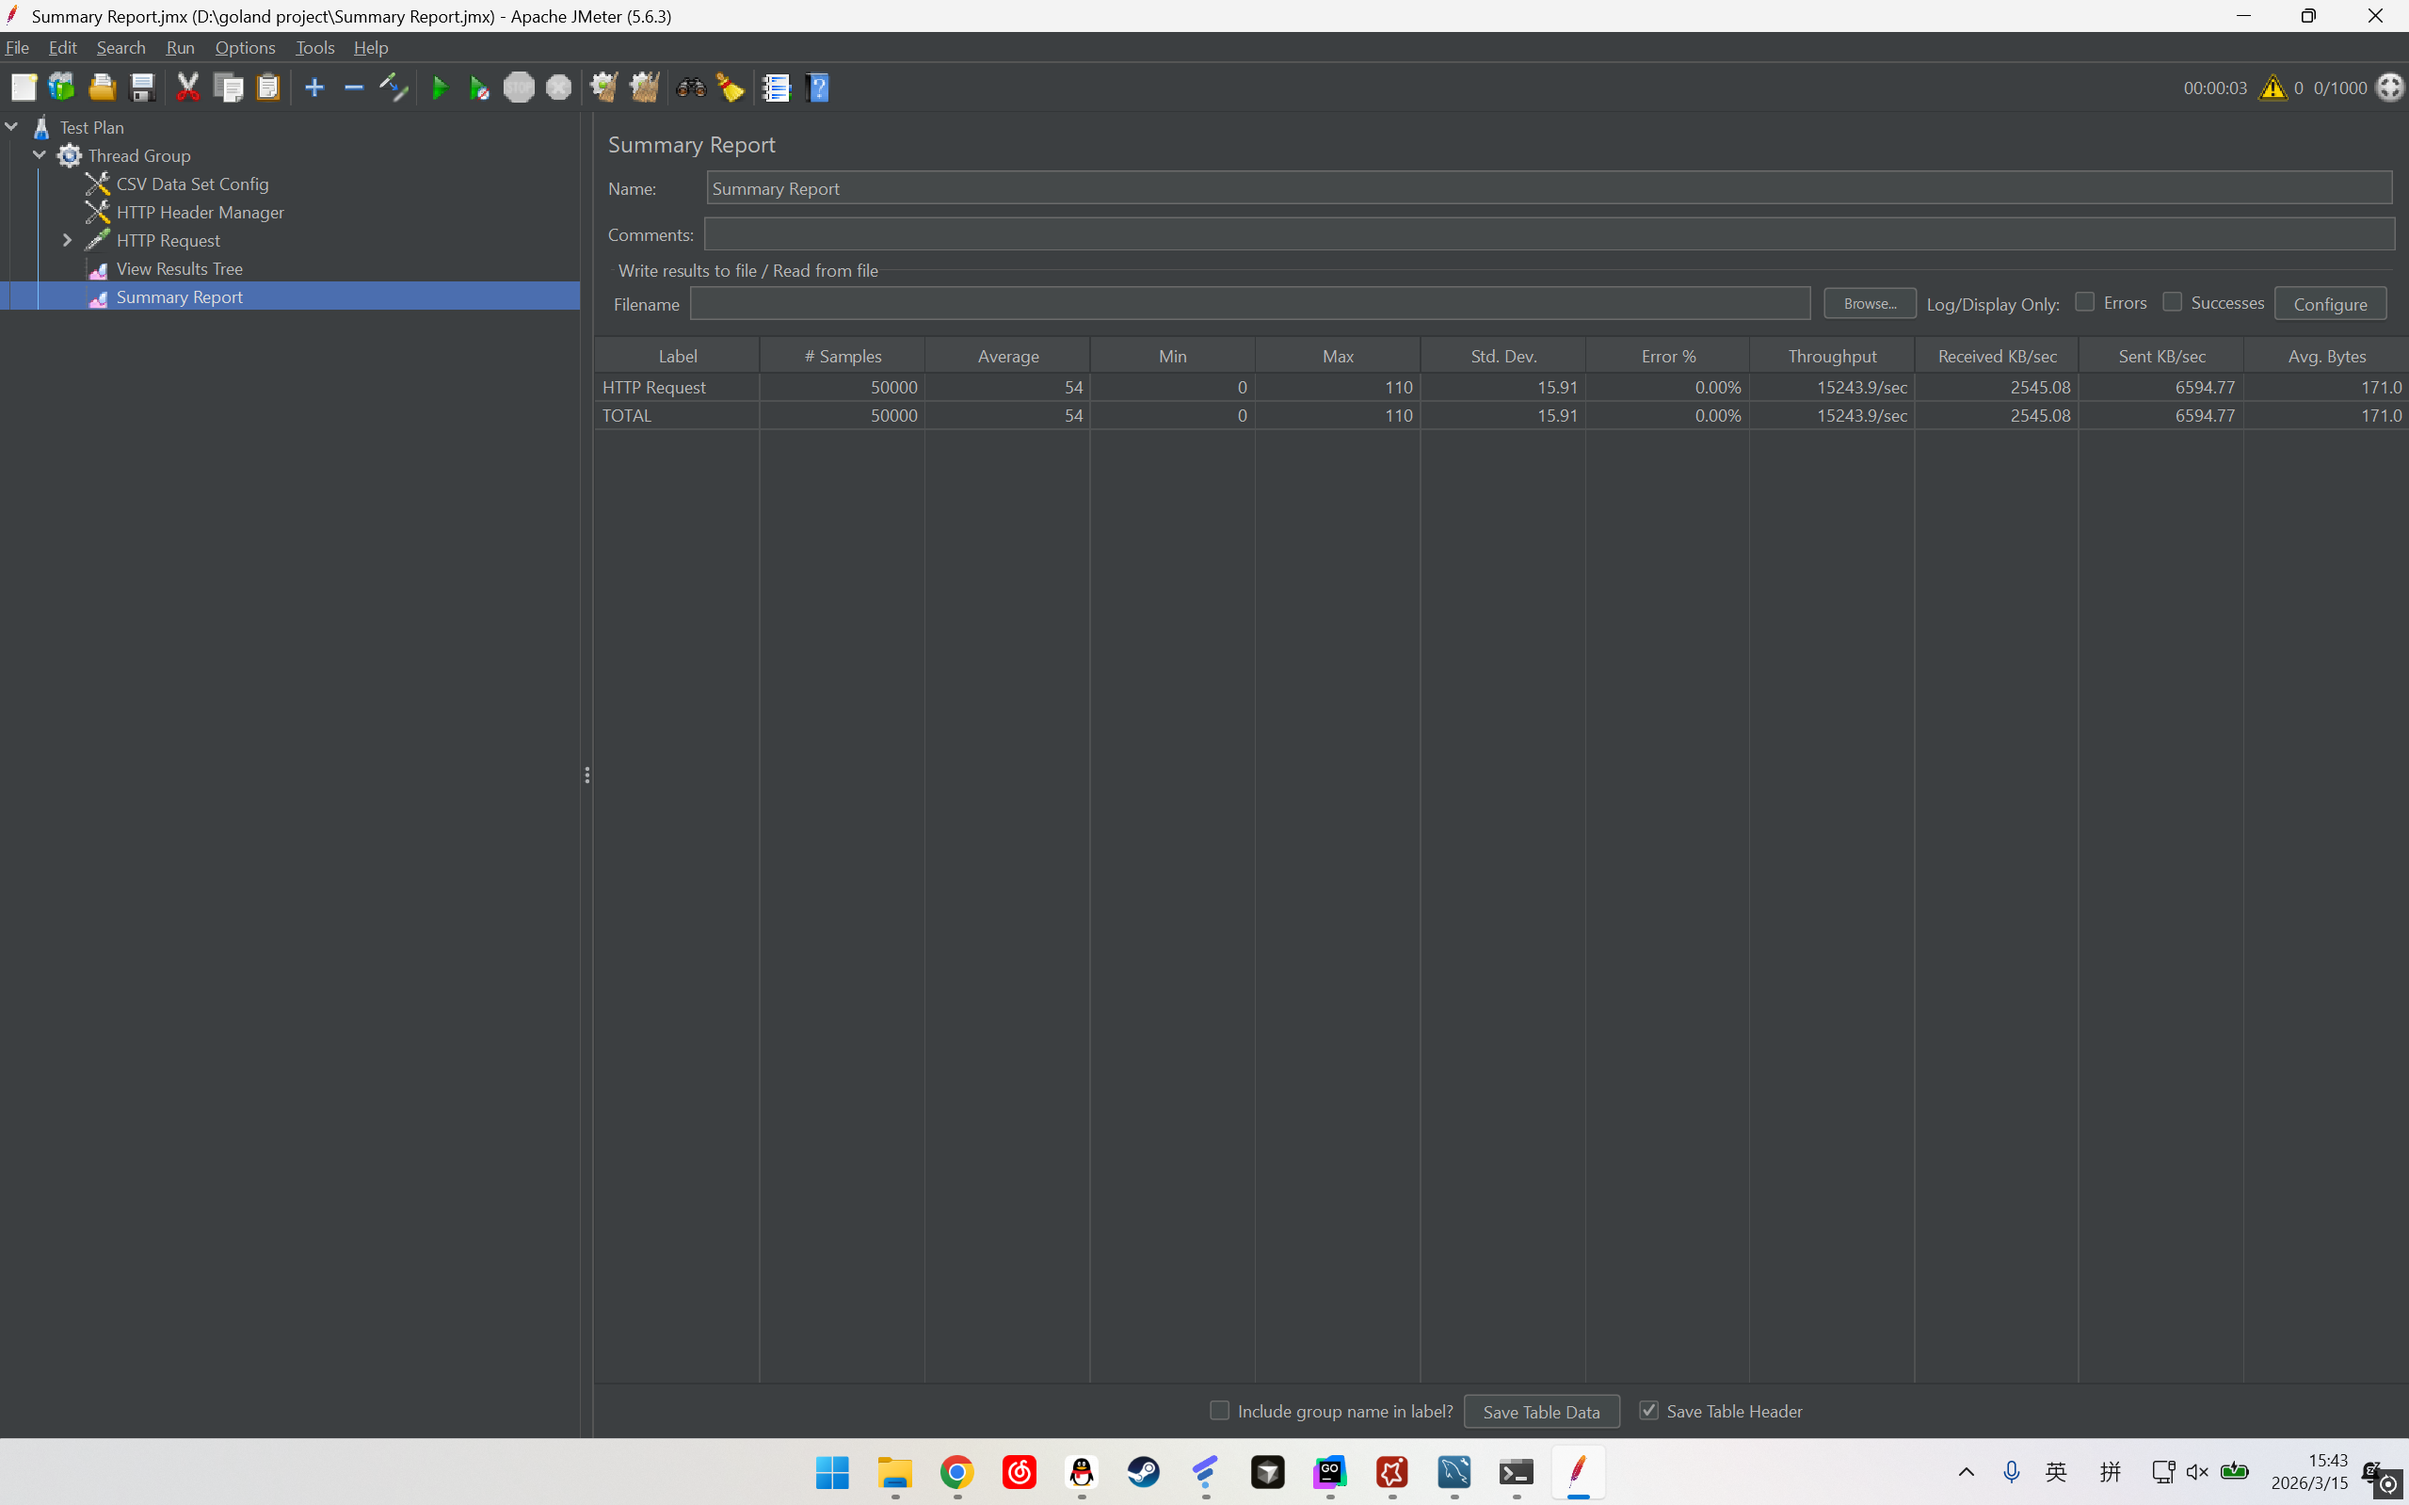
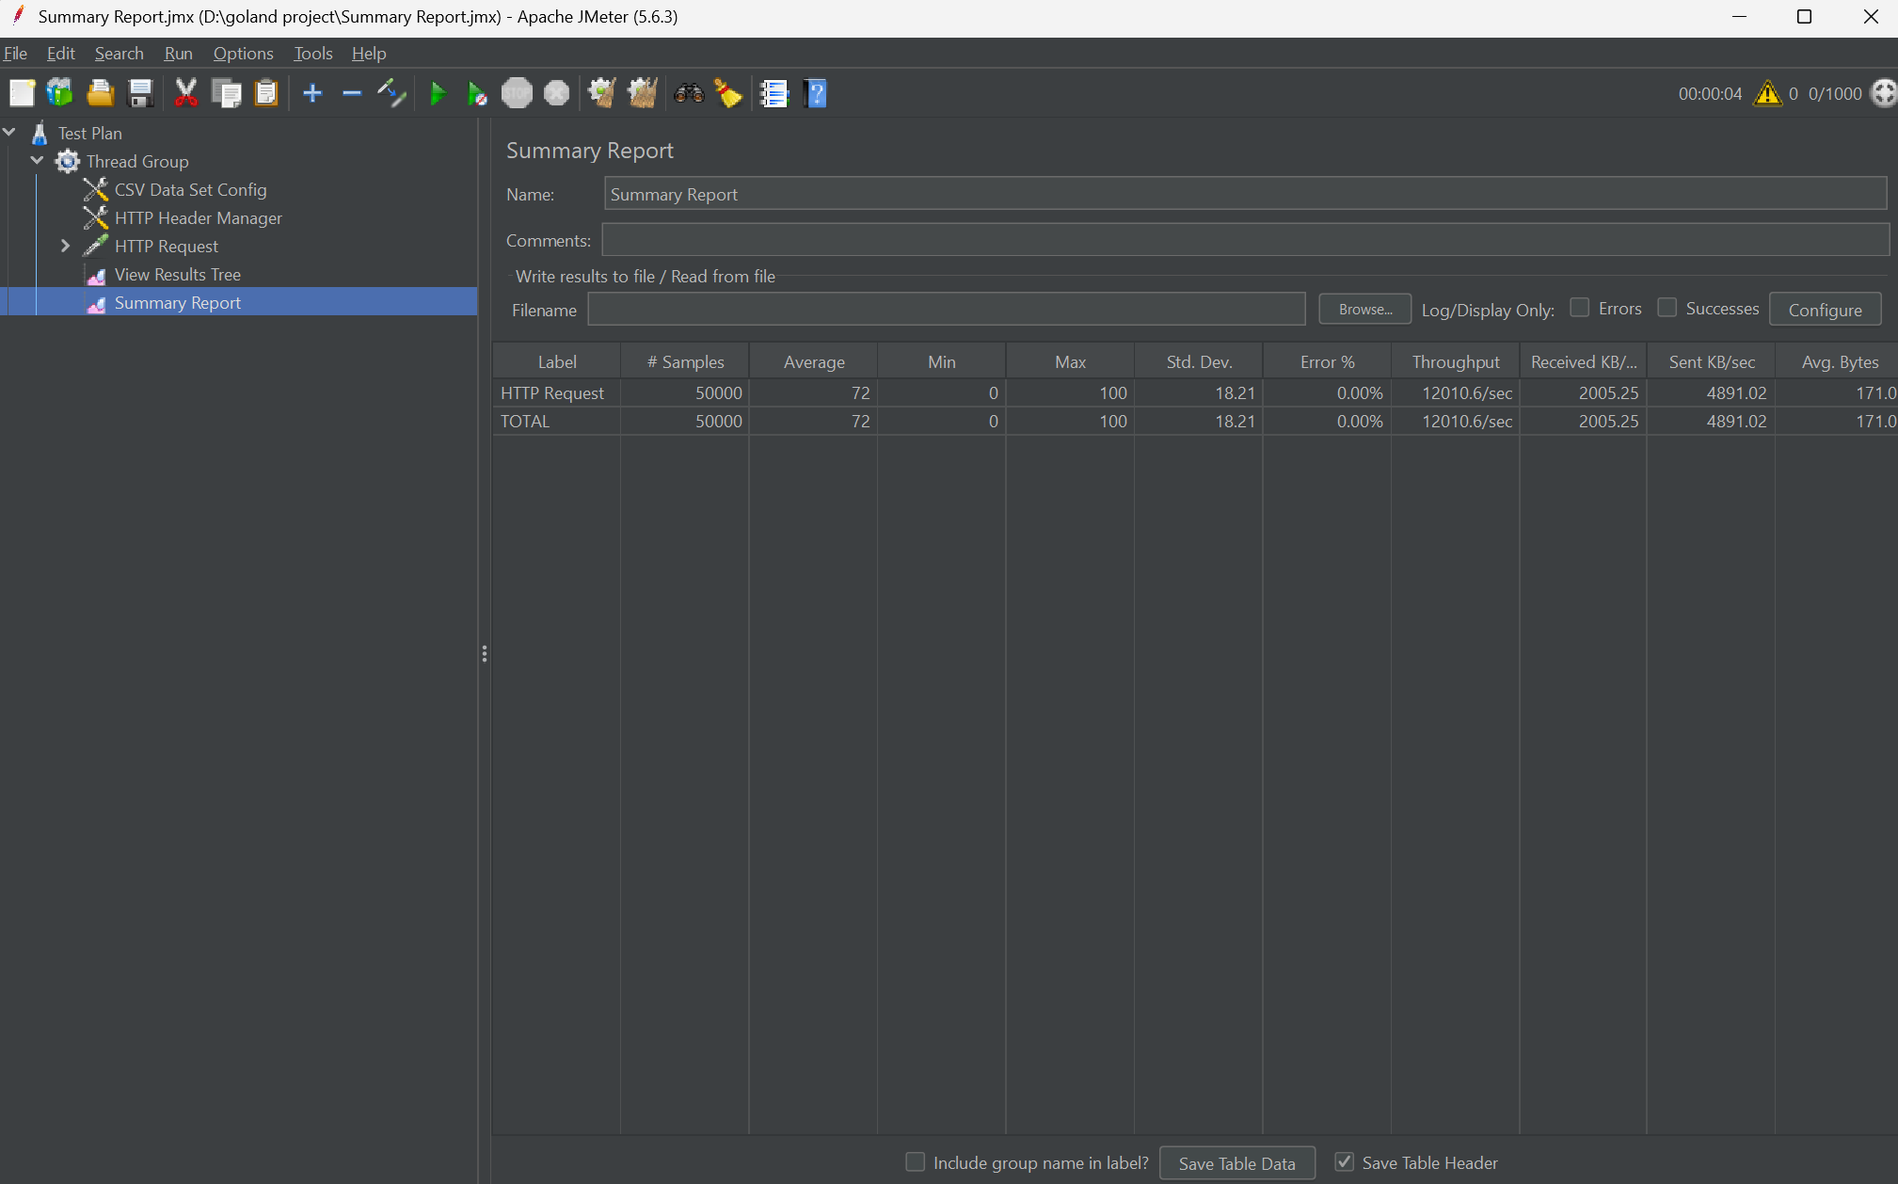
fix:  独立单次消息消费函数，修复 Context 泄漏与消息防丢机制

diff --git a/mq/consumer.go b/mq/consumer.go
@@ -5,10 +5,10 @@ import (
 	"encoding/json"
 	"fmt"
 	"go-course/global"
-
 	"go-course/service"
 	"time"
 
+	"github.com/rabbitmq/amqp091-go"
 	"go.uber.org/zap"
 )
 
@@ -36,92 +36,104 @@ func Consumer() {
 			global.Logger.Info("消费者Worker启动", zap.Int("workerID", workerID))
 
 			for d := range msgs {
-				global.Logger.Info("收到MQ消息", zap.String("msgID:", d.MessageId))
-				var msg service.Message
-				//  反序列化消息body
-				err = json.Unmarshal(d.Body, &msg)
-				if err != nil {
-					global.Logger.Error("消息解析失败",
-						zap.String("body", string(d.Body)),
-						zap.Error(err))
-					//消息解析失败 删除这条消息 进行下一次循环
-					d.Ack(false)
-					continue
-				}
-				ctx, cancel := context.WithTimeout(context.Background(), 5*time.Second)
-
-				key := fmt.Sprintf("res:%d:%d", msg.StudentID, msg.CourseID)
-				msgkey := fmt.Sprintf("msg:%d:%d", msg.StudentID, msg.CourseID)
-
-				// Redis分布式锁保证消息不重复
-				exists := global.RDB.SetNX(ctx, msgkey, "processing", time.Minute*10)
-				if !exists.Val() {
-					global.Logger.Warn("命中消息防重拦截 直接丢弃废消息",
-						zap.Uint("studentID", msg.StudentID),
-						zap.Uint("courseID", msg.CourseID))
-					// 消息重复 确认消费
-					d.Ack(false)
-					continue
-				}
-
-				// 数据库创建选课记录封装到了一个事务里面 并对TotalStock库存加锁 有错误则回滚
-				err = service.CreateRecord(msg.StudentID, msg.CourseID)
-				if err != nil {
-
-					if err == service.ErrStockEmpty {
-						if global.Logger.Core().Enabled(zap.DebugLevel) {
-							global.Logger.Debug("库存不足",
-								zap.Uint("课程ID", msg.CourseID))
-						}
-						// 消息消费成功 更新分布式锁value
-						global.RDB.Set(ctx, msgkey, "success", time.Minute*10)
-						global.RDB.Set(ctx, key, -1, time.Minute)
-						cancel()
-						// 库存不足时 删除消息 进入下一次循环
-						d.Ack(false)
-						continue
-					}
-					// 重复选课 两个消费者同时收到消息导致
-					if err == service.ErrRepeatSelection {
-						global.Logger.Warn("并发重复选课，已拦截",
-							zap.Uint("uid", msg.StudentID),
-							zap.Uint("cid", msg.CourseID))
-						global.RDB.Set(ctx, msgkey, "success", time.Minute*10)
-						global.RDB.Set(ctx, key, -1, time.Minute)
-						cancel()
-						d.Ack(false) // 确认消费 不要重试了
-						continue
-					}
-					global.Logger.Error("系统异常 创建记录失败",
-						zap.Uint("学生ID", msg.StudentID),
-						zap.Uint("课程ID", msg.CourseID),
-						zap.Error(err))
-					time.Sleep(1 * time.Second)
-					// 消息消费失败需要重试 删除分布式锁
-					global.RDB.Del(ctx, msgkey)
-					cancel()
-					// 系统出错 把这条消息重新加入消息队列
-					d.Reject(true)
-					continue
-
-				}
-				// 消息消费成功 数据库正常扣减
-				global.RDB.Set(ctx, msgkey, "success", time.Minute*10)
-
-				err = global.RDB.Set(ctx, key, 1, 5*time.Minute).Err()
-				// 不能用defer 因为这里的for range是一个死循环 完成一次Redis操作直接cancel
-				cancel()
-				if err != nil {
-					global.Logger.Error("Redis出错", zap.String("key", key), zap.Error(err))
-					d.Ack(false)
-					continue
-				}
-
-				global.Logger.Info("选课记录创建成功",
-					zap.Uint("学生ID", msg.StudentID),
-					zap.Uint("课程ID", msg.CourseID))
-				d.Ack(false)
+				// 将单次消息处理抽离为独立函数 防止协程意外退出和内存泄漏
+				processSingleMessage(d)
 			}
 		}(i)
 	}
+}
+
+// 抽取出的单条消息处理逻辑
+func processSingleMessage(d amqp091.Delivery) {
+	global.Logger.Info("收到MQ消息", zap.String("msgID:", d.MessageId))
+	var msg service.Message
+
+	//  反序列化消息body
+	err := json.Unmarshal(d.Body, &msg)
+	if err != nil {
+		global.Logger.Error("消息解析失败",
+			zap.String("body", string(d.Body)),
+			zap.Error(err))
+		// 消息解析失败 删除这条消息 进行下一次循环
+		d.Ack(false)
+		return
+	}
+
+	ctx, cancel := context.WithTimeout(context.Background(), 5*time.Second)
+	defer cancel() // 独立函数配合 defer，完美解决 Context 内存泄漏问题
+
+	key := fmt.Sprintf("res:%d:%d", msg.StudentID, msg.CourseID)
+	msgkey := fmt.Sprintf("msg:%d:%d", msg.StudentID, msg.CourseID)
+
+	// Redis分布式锁保证消息不重复
+	exists := global.RDB.SetNX(ctx, msgkey, "processing", time.Minute*10)
+	if !exists.Val() {
+		// 抢锁失败 确认锁的value
+		status, _ := global.RDB.Get(ctx, msgkey).Result()
+		if status == "success" {
+			// 别人已经成功落库了 确认删除消息
+			d.Ack(false)
+			return
+		}
+		// "processing"说明别人正在处理（或者别人宕机了锁还没过期）
+		d.Reject(true)
+		return
+	}
+
+	// 数据库创建选课记录封装到了一个事务里面 并对TotalStock库存加锁 有错误则回滚
+	err = service.CreateRecord(ctx, msg.StudentID, msg.CourseID)
+	if err != nil {
+
+		if err == service.ErrStockEmpty {
+			if global.Logger.Core().Enabled(zap.DebugLevel) {
+				global.Logger.Debug("库存不足",
+					zap.Uint("课程ID", msg.CourseID))
+			}
+			// 消息消费成功 更新分布式锁value
+			global.RDB.Set(ctx, msgkey, "success", time.Minute*10)
+			global.RDB.Set(ctx, key, -1, time.Minute)
+			// 库存不足时 删除消息 进入下一次循环
+			d.Ack(false)
+			return
+		}
+
+		// 重复选课 两个消费者同时收到消息导致
+		if err == service.ErrRepeatSelection {
+			global.Logger.Warn("并发重复选课，已拦截",
+				zap.Uint("uid", msg.StudentID),
+				zap.Uint("cid", msg.CourseID))
+			global.RDB.Set(ctx, msgkey, "success", time.Minute*10)
+			global.RDB.Set(ctx, key, 1, time.Minute) // 修复：既然是重复选课，说明已成功，写入1
+			// 确认消费 不要重试了
+			d.Ack(false)
+			return
+		}
+
+		global.Logger.Error("系统异常 创建记录失败",
+			zap.Uint("学生ID", msg.StudentID),
+			zap.Uint("课程ID", msg.CourseID),
+			zap.Error(err))
+		time.Sleep(1 * time.Second)
+		// 消息消费失败需要重试 删除分布式锁
+		global.RDB.Del(ctx, msgkey)
+		// 系统出错 把这条消息重新加入消息队列
+		d.Reject(true)
+		return
+	}
+
+	// 消息消费成功 数据库正常扣减
+	global.RDB.Set(ctx, msgkey, "success", time.Minute*10)
+
+	err = global.RDB.Set(ctx, key, 1, 5*time.Minute).Err()
+	// 不能用defer 因为这里的for range是一个死循环 完成一次Redis操作直接cancel
+	if err != nil {
+		global.Logger.Error("Redis出错", zap.String("key", key), zap.Error(err))
+		d.Ack(false)
+		return
+	}
+
+	global.Logger.Info("选课记录创建成功",
+		zap.Uint("学生ID", msg.StudentID),
+		zap.Uint("课程ID", msg.CourseID))
+	d.Ack(false)
 }

diff --git a/dao/course.go b/dao/course.go
@@ -1,6 +1,7 @@
 package dao
 
 import (
+	"context"
 	"errors"
 	"go-course/global"
 	"go-course/model"
@@ -10,10 +11,10 @@ import (
 )
 
 // 获取课程列表函数
-func GetCourseList() ([]model.Course, error) {
+func GetCourseList(timeoutCtx context.Context) ([]model.Course, error) {
 	var courses []model.Course
 	// gorm会自动通过&courses的类型Course 在数据库中找course的表 存入courses课程切片
-	err := global.DB.Find(&courses).Error
+	err := global.DB.WithContext(timeoutCtx).Find(&courses).Error
 	if err != nil {
 		global.Logger.Error("数据库出错", zap.Error(err))
 		return nil, err
@@ -21,9 +22,9 @@ func GetCourseList() ([]model.Course, error) {
 	return courses, nil
 }
 
-func GetCourseById(id uint) (*model.Course, error) {
+func GetCourseById(timeoutCtx context.Context, id uint) (*model.Course, error) {
 	var course model.Course
-	err := global.DB.First(&course, id).Error
+	err := global.DB.WithContext(timeoutCtx).First(&course, id).Error
 	if err != nil {
 		if errors.Is(err, gorm.ErrRecordNotFound) {
 			return nil, gorm.ErrRecordNotFound

diff --git a/dao/student.go b/dao/student.go
@@ -1,6 +1,7 @@
 package dao
 
 import (
+	"context"
 	"errors"
 	"go-course/global"
 	"go-course/model"
@@ -10,8 +11,8 @@ import (
 )
 
 // 创建学生函数
-func CreateStu(student *model.Student) error {
-	err := global.DB.Create(student).Error
+func CreateStu(timeoutCtx context.Context, student *model.Student) error {
+	err := global.DB.WithContext(timeoutCtx).Create(student).Error
 	if err != nil {
 		global.Logger.Error("数据库出错", zap.Error(err))
 	}
@@ -19,9 +20,9 @@ func CreateStu(student *model.Student) error {
 }
 
 // 通过学号查询学生
-func GetBySid(sid string) (*model.Student, error) {
+func GetBySid(timeoutCtx context.Context, sid string) (*model.Student, error) {
 	var student model.Student
-	err := global.DB.Where("sid = ?", sid).First(&student).Error
+	err := global.DB.WithContext(timeoutCtx).Where("sid = ?", sid).First(&student).Error
 	if err != nil {
 		if !errors.Is(err, gorm.ErrRecordNotFound) {
 			global.Logger.Error("数据库查询异常", zap.String("sid", sid), zap.Error(err))

diff --git a/service/select.go b/service/select.go
@@ -35,18 +35,18 @@ func SelectCourse(ctx context.Context, studentID, courseID uint) error {
 	defer cancel()
 
 	// Redis分布式锁过滤短时间内大量重复请求
-	recordkey := fmt.Sprintf("lock:%d:%d", studentID, courseID)
+	lockkey := fmt.Sprintf("lock:%d:%d", studentID, courseID)
 
-	repeat := global.RDB.SetNX(timeoutCtx, recordkey, studentID, 2*time.Second)
+	exists := global.RDB.SetNX(timeoutCtx, lockkey, studentID, 2*time.Second)
 
 	// 判断是否加锁成功
-	if !repeat.Val() {
+	if !exists.Val() {
 		return ErrRepeatSelection
 	}
-	defer global.RDB.Del(context.Background(), recordkey)
+	defer global.RDB.Del(context.Background(), lockkey)
 
 	// 选课请求key和课程库存key
-	requestkey := fmt.Sprintf("record:%d:%d", studentID, courseID)
+	requestkey := fmt.Sprintf("request:%d:%d", studentID, courseID)
 	stockkey := fmt.Sprintf("course:stock:%d", courseID)
 
 	// Lua keys args

diff --git a/middleware/bloomfilter.go b/middleware/bloomfilter.go
@@ -1,7 +1,6 @@
 package middleware
 
 import (
-	"fmt"
 	"go-course/global"
 	"net/http"
 
@@ -11,7 +10,7 @@ import (
 func Bloomfilter() gin.HandlerFunc {
 	return func(c *gin.Context) {
 		// 布隆过滤器 快速过滤不存在的课程ID
-		if !global.CourseBloomFilter.TestString(fmt.Sprintf("%d", c.Param("id"))) {
+		if !global.CourseBloomFilter.TestString(c.Param("id")) {
 			c.JSON(http.StatusBadRequest, gin.H{
 				"code": http.StatusBadRequest,
 				"msg":  "不存在的课程",

diff --git a/initialize/redis.go b/initialize/redis.go
@@ -40,7 +40,7 @@ func LoadStockToRedis() error {
 	defer cancel()
 
 	// 获取课程列表信息
-	courses, err := dao.GetCourseList()
+	courses, err := dao.GetCourseList(ctx)
 	if err != nil {
 		return err
 	}

diff --git a/initialize/rabbitmq.go b/initialize/rabbitmq.go
@@ -21,6 +21,7 @@ func InitRabbitMQ() {
 		global.Logger.Fatal("通道声明失败", zap.Error(err))
 		panic(err)
 	}
+
 	// 声明队列
 	_, err = global.MQChannel.QueueDeclare(
 		"redisQueue",

diff --git a/README.md b/README.md
@@ -1,36 +1,39 @@
-# 🚀 高并发秒杀选课系统 (High-Concurrency Course Selection System)
+# 高并发秒杀选课系统 (High-Concurrency Course Selection System)
 
-## 📖 项目简介
+## 项目简介
 
 本项目是一个基于 Golang 开发的高并发秒杀选课系统，模拟高校选课/电商抢购场景。针对瞬时极高并发流量容易导致的“数据库宕机”、“缓存击穿”、“库存超卖”等痛点，系统采用**缓存前置、异步削峰**的微服务级架构，单机环境下成功实现 **1.5w+ TPS** 的吞吐量，且达成 **0 超卖、0 宕机**。
 
-## 🏗 核心架构与技术亮点
+## 核心架构与技术亮点
 
-### 1. 防超卖 (Redis Lua 原子操作)
-摒弃传统的 MySQL 事务排队查库方案，将“用户鉴权 + 扣减库存”逻辑封装入 **Redis Lua 脚本**。利用 Redis 的单线程执行特性，在内存层面实现绝对的原子性扣减，完美杜绝并发超卖现象。
+### 1. 极限防超卖与接口防刷 (Redis Lua + 分布式锁)
+摒弃传统的 MySQL 事务排队查库方案，基于 Redis `SetNX` 实现毫秒级用户防重连击拦截。核心扣减逻辑封装入**Redis Lua 脚本**，利用单线程特性在内存层面实现“库存校验+扣减+防重打标”的绝对原子性，完美杜绝并发超卖现象。
 
-### 2. 缓存击穿绝对防御 (Singleflight 机制)
-针对热点课程缓存失效瞬间爆发的并发回源洪峰，底层引入 Go 官方扩展库 `golang.org/x/sync/singleflight`。利用 WaitGroup 的物理阻塞机制，将数万个相同的数据库查询请求合并为 1 个，极大保护了底层数据库。
+### 2. 极速缓存穿透拦截 (API 中间件 Bloom Filter)
+系统启动阶段，全量预热课程 ID 至布隆过滤器。深度结合 Gin 路由的 RESTful 规范提取路径参数，**在中间件层前置拦截**恶意伪造请求，实现到达核心业务层之前的极速熔断与**零对象内存分配**。
 
-### 3. 缓存穿透拦截 (Bloom Filter)
-系统启动阶段，全量预热课程 ID 至布隆过滤器。在请求入口处前置拦截几乎所有的恶意伪造 ID 请求，避免无效流量穿透至 DB 层。
+### 3. 缓存击穿绝对防御 (Singleflight 机制)
+针对热点课程缓存失效瞬间爆发的并发回源洪峰，底层引入 Go 官方扩展库 `golang.org/x/sync/singleflight`。利用 WaitGroup 的物理阻塞机制，将数万个相同的数据库查询请求合并为 1 个，极大保护了底层数据库免受瞬时击穿。
 
-### 4. MQ 异步削峰填谷 (RabbitMQ + 悲观锁)
-对于抢课成功的极少部分有效流量，系统并不直接写库，而是通过 **RabbitMQ** 异步投递订单消息。消费端多 Goroutine 匀速拉取，并结合 **MySQL 悲观锁 (`FOR UPDATE`)** 执行最终排队落库，实现流量的平滑过渡与数据最终一致性。
+### 4. 异步削峰与最终一致性 (RabbitMQ Worker Pool)
+对于抢课成功的流量，系统通过 RabbitMQ 异步投递落库消息。消费端采用 **Worker Pool 协程池**平缓拉取，并**关闭自动 ACK**；结合 `success/processing` 缓存状态机精细化控制 NACK 重试机制。底层配合 **MySQL 悲观锁 (`FOR UPDATE`)** 与唯一索引兜底，实现流量平滑过渡与绝对的幂等落库。
 
-## 📊 性能压测报告 (JMeter)
+### 5. 全链路资源防泄露 (Context 级联控制)
+深度应用 Go 并发哲学，将网关层 HTTP 请求的生命周期 (`c.Request.Context()`) 一路透传至 Redis I/O 与 GORM 底层，构建**父子级联超时树**。彻底解决因客户端异常断网或服务拥塞引发的后端“僵尸协程”堆积与内存泄漏问题。
+
+## 性能压测报告 (JMeter)
 
 在单机环境下，模拟 **1000 并发**，共计 **50,000 样本**的高并发攻击：
 
-* **极致吞吐量 (Throughput):** 15,243.9/sec (1.5w+ TPS)
-* **平均响应时间 (Average RT):** 54 ms
+* **极致吞吐量 (Throughput):** 12010.6/sec (1.2w+ TPS)
+* **平均响应时间 (Average RT):** 72 ms
 * **错误率 (Error Rate):** 0.00% (达成 0 超卖、0 宕机)
 
 > **压测结果截图：**
 
 ![JMeter 压测报告](./docs/jmeter.png)
 
-## 🛠 快速启动 (Quick Start)
+## 快速启动 (Quick Start)
 
 ### 1. 环境依赖
 
@@ -45,7 +48,7 @@
 
 ```bash
 # 克隆项目 (请将链接替换为你自己的 GitHub 仓库地址)
-git clone https://github.com/你的用户名/你的项目名.git
+git clone [https://github.com/你的用户名/你的项目名.git](https://github.com/你的用户名/你的项目名.git)
 cd 你的项目名
 
 # 安装依赖
@@ -69,6 +72,6 @@ RabbitMQ: "amqp://guest:guest@127.0.0.1:5672/"
 go run main.go
 ```
 
-## 📄 许可证
+## 许可证
 
 本项目采用 [MIT License](https://opensource.org/licenses/MIT) 开源许可证。
